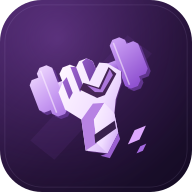
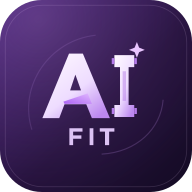
Brand the app as AIFit with custom AI fitness monogram

diff --git a/components/dashboard.tsx b/components/dashboard.tsx
@@ -94,7 +94,7 @@ export default function Dashboard() {
     {view === 'Workouts' && !data.workouts.length && <p className="muted workout-copy">No sessions logged yet. Record your first gym workout.</p>}
     <button className="secondary full" onClick={() => setModal('workout')}><Plus size={16}/> Log a workout</button></Panel>;
   const weightPanel = <Panel><div className="panel-heading"><div><span className="eyebrow">THE BIG PICTURE</span><h2>Weight progress</h2></div><button className="text-button" onClick={() => setModal('weight')}><Plus size={16}/> Log weight</button></div><div className="weight-summary"><strong>{currentWeight.toFixed(1)}<span> kg</span></strong><span className="trend"><ArrowDownRight size={15}/>{lost >= 0 ? `${lost.toFixed(1)} kg down` : `${Math.abs(lost).toFixed(1)} kg up`} from start</span></div><WeightChart data={data} today={date}/><div className="chart-legend"><span><i/> Your weight</span><span>Goal <strong>64 kg</strong></span></div>{view === 'Progress' && <div className="weight-history">{[...weights].reverse().map(w => <div className="food-row" key={w.id}><span className="grow">{prettyDate(w.date, { day: 'numeric', month: 'long', year: 'numeric' })}</span><strong>{w.kg} kg</strong><button className="icon-button delete" aria-label={`Delete weight from ${w.date}`} onClick={() => setData({ ...data, weights: data.weights.filter(item => item.id !== w.id) })}><Trash2 size={15}/></button></div>)}</div>}</Panel>;
-  return <div className="app-shell"><aside className="sidebar"><a className="brand" href="/" aria-label="FitTrack AI home"><span className="brand-symbol"><Activity size={24}/></span>FitTrack<span className="brand-ai">AI</span></a><span className="nav-label">YOUR WORKSPACE</span><nav>{navigation.map(({ name, icon: Icon }) => <button key={name} className={view === name ? 'nav-item active' : 'nav-item'} onClick={() => setView(name)} aria-current={view === name ? 'page' : undefined}><Icon size={19}/>{name}{view === name && <span className="nav-dot"/>}</button>)}</nav><div className="sidebar-bottom"><div className="goal-note"><Target size={21}/><strong>One day at a time.</strong><p>Small steps. Stronger you.</p><div className="mini-track"><span style={{ width: `${Math.max(0, Math.min(100, lost / 10 * 100))}%` }}/></div><small>{Math.max(0, (currentWeight - 64)).toFixed(1)} kg to your goal</small></div><button className="account" onClick={() => setView('Profile')}><span className="avatar">ME</span><span><strong>Your fitness journey</strong><small>Personal dashboard</small></span><Settings2 size={16}/></button></div></aside>
+  return <div className="app-shell"><aside className="sidebar"><a className="brand" href="/" aria-label="AIFit home"><span className="brand-symbol"><Activity size={24}/></span>AIFit<span className="brand-ai">AiFT</span></a><span className="nav-label">YOUR WORKSPACE</span><nav>{navigation.map(({ name, icon: Icon }) => <button key={name} className={view === name ? 'nav-item active' : 'nav-item'} onClick={() => setView(name)} aria-current={view === name ? 'page' : undefined}><Icon size={19}/>{name}{view === name && <span className="nav-dot"/>}</button>)}</nav><div className="sidebar-bottom"><div className="goal-note"><Target size={21}/><strong>One day at a time.</strong><p>Small steps. Stronger you.</p><div className="mini-track"><span style={{ width: `${Math.max(0, Math.min(100, lost / 10 * 100))}%` }}/></div><small>{Math.max(0, (currentWeight - 64)).toFixed(1)} kg to your goal</small></div><button className="account" onClick={() => setView('Profile')}><span className="avatar">ME</span><span><strong>Your fitness journey</strong><small>Personal dashboard</small></span><Settings2 size={16}/></button></div></aside>
     <div className="main-wrap"><header className="topbar"><span className="breadcrumb">Your workspace <ChevronRight size={14}/> <strong>{view}</strong></span><button className="storage-button" onClick={() => setModal('cloud')}><span className="status-dot"/>{user ? 'Cloud account' : 'Saved on this device'}<Cloud size={16}/></button></header>
       <main><div className="page-heading"><div><span className="eyebrow">LET’S MAKE TODAY COUNT</span><h1>{view === 'Overview' ? 'Your daily overview' : view === 'Profile' ? 'Built around you' : view}</h1><p>{view === 'Overview' ? 'A little stronger. A little closer. Every single day.' : 'Small, consistent actions. Progress you can see.'}</p></div><div className="date-control"><button className="icon-button" onClick={() => changeDay(-1)} aria-label="Previous day"><ChevronLeft size={17}/></button><label><input aria-label="Selected date" type="date" value={date} max={localDate()} onChange={e => e.target.value && setDate(e.target.value)}/></label><button className="icon-button" onClick={() => changeDay(1)} disabled={date >= localDate()} aria-label="Next day"><ChevronRight size={17}/></button></div></div>
       {!ready ? <p className="muted" role="status">Loading your dashboard…</p> : <>
@@ -108,8 +108,8 @@ export default function Dashboard() {
       {view === 'Food diary' && <div className="detail-layout"><div className="summary-strip"><Flame size={22}/><strong>{consumed.calories} / 1,900 kcal</strong><span>{consumed.protein} / 130 g protein</span></div>{foodPanel}</div>}
       {view === 'Workouts' && <div className="detail-layout">{workoutPanel}</div>}
       {view === 'Progress' && <div className="detail-layout">{weightPanel}</div>}
-      {view === 'Profile' && <div className="detail-layout"><Panel><div className="panel-heading"><div><span className="eyebrow">YOUR STARTING POINT</span><h2>Your fitness profile</h2></div><Target size={22}/></div><div className="profile-grid">{[['Age', '37 years'], ['Sex', 'Male'], ['Height', '165 cm'], ['Starting weight', '74 kg'], ['Target weight', '64 kg'], ['Daily calories', '1,900 kcal'], ['Daily protein', '130 g'], ['Gym target', '4 days / week']].map(([label, value]) => <div key={label}><span>{label}</span><strong>{value}</strong></div>)}</div><p className="muted">These are your supplied targets. Your current weight updates from your weigh-ins.</p></Panel><Panel><h2>Your data, in your hands</h2><p className="muted">Logs save in this browser. Export a copy, restore an export, or connect Supabase to keep a cloud backup. Anyone using this browser can access local logs.</p><div className="button-row"><button className="secondary" onClick={exportData}>Export logs</button><label className="secondary import-label">Import logs<input type="file" accept="application/json,.json" onChange={async e => { const file = e.target.files?.[0]; if (!file) return; try { const parsed: unknown = JSON.parse(await file.text()); if (!isData(parsed)) throw new Error('Invalid FitTrack export.'); setData(parsed); setNotice('Export restored. Browser logs replaced.'); } catch { setNotice('Could not import this file. Choose a valid FitTrack JSON export.'); } e.target.value = ''; }}/></label><button className="secondary" onClick={() => setModal('cloud')}><Cloud size={16}/> Cloud backup</button></div><p className="rule-note">Import replaces browser logs. Export first to keep a copy.</p></Panel></div>}
-      <footer><span><Activity size={14}/> FitTrack AI</span><span>Consistency looks good on you.</span><span>Stage 1 · Personal dashboard</span></footer></>}
+      {view === 'Profile' && <div className="detail-layout"><Panel><div className="panel-heading"><div><span className="eyebrow">YOUR STARTING POINT</span><h2>Your fitness profile</h2></div><Target size={22}/></div><div className="profile-grid">{[['Age', '37 years'], ['Sex', 'Male'], ['Height', '165 cm'], ['Starting weight', '74 kg'], ['Target weight', '64 kg'], ['Daily calories', '1,900 kcal'], ['Daily protein', '130 g'], ['Gym target', '4 days / week']].map(([label, value]) => <div key={label}><span>{label}</span><strong>{value}</strong></div>)}</div><p className="muted">These are your supplied targets. Your current weight updates from your weigh-ins.</p></Panel><Panel><h2>Your data, in your hands</h2><p className="muted">Logs save in this browser. Export a copy, restore an export, or connect Supabase to keep a cloud backup. Anyone using this browser can access local logs.</p><div className="button-row"><button className="secondary" onClick={exportData}>Export logs</button><label className="secondary import-label">Import logs<input type="file" accept="application/json,.json" onChange={async e => { const file = e.target.files?.[0]; if (!file) return; try { const parsed: unknown = JSON.parse(await file.text()); if (!isData(parsed)) throw new Error('Invalid AIFit export.'); setData(parsed); setNotice('Export restored. Browser logs replaced.'); } catch { setNotice('Could not import this file. Choose a valid AIFit JSON export.'); } e.target.value = ''; }}/></label><button className="secondary" onClick={() => setModal('cloud')}><Cloud size={16}/> Cloud backup</button></div><p className="rule-note">Import replaces browser logs. Export first to keep a copy.</p></Panel></div>}
+      <footer><span><Activity size={14}/> AIFit</span><span>Consistency looks good on you.</span><span>Stage 1 · Personal dashboard</span></footer></>}
       </main></div>
     <nav className="mobile-nav" aria-label="Mobile navigation">{navigation.map(({ name, icon: Icon }) => <button key={name} className={view === name ? 'active' : ''} onClick={() => setView(name)} aria-current={view === name ? 'page' : undefined}><Icon size={20}/><span>{name === 'Food diary' ? 'Food' : name}</span></button>)}</nav>
     <dialog ref={dialog} onCancel={() => setModal(null)} onClick={e => { if (e.target === e.currentTarget) setModal(null); }}><div className="modal-content"><div className="panel-heading"><div><span className="eyebrow">ONE SMALL STEP</span><h2>{modal === 'food' ? 'Log a meal' : modal === 'workout' ? 'Log a workout' : modal === 'weight' ? 'Log your weight' : 'Cloud backup'}</h2></div><button className="icon-button" aria-label="Close dialog" onClick={() => setModal(null)}><X size={20}/></button></div>

diff --git a/components/features/assistant.tsx b/components/features/assistant.tsx
@@ -66,7 +66,7 @@ export function Assistant({ mode }: { mode: AssistantMode }) {
   return <div className="feature-page" data-page="assistant"><div className="shell-page-heading"><div><span className="shell-overline">DRAFT · REVIEW · SAVE</span><h1>Your AI assistant</h1><p>Turn everyday descriptions into records and practical next steps.</p></div></div>
     <div className="assistant-workbench"><aside className="chat-tools" aria-label="Chat tools"><div><span className="shell-overline">YOUR AI WORKSPACE</span><h2>What’s on your mind?</h2></div><nav className="assistant-tabs" aria-label="Assistant tools">{assistantModes.map(item => <Link className={item === mode ? 'shell-button' : 'shell-text-link'} aria-current={item === mode ? 'page' : undefined} href={`/assistant?mode=${item}`} key={item}>{titles[item]}</Link>)}</nav><label>Chat provider<select aria-label="Chat provider" disabled={busy} value={provider} onChange={event => { setProvider(event.target.value as typeof provider); setConsent(false); setBillingConsent(false); }}><option value="openai">OpenAI · GPT-6 Luna (recommended)</option><option value="anthropic">Anthropic · Claude Haiku 5.5</option></select></label><button type="button" className="shell-button shell-button-secondary" disabled={busy} onClick={() => { setConversation([]); setDraft(null); setDescription(''); setError(''); setMessage(''); }}>New conversation</button><p className="workout-muted">This chat stays in memory for this page session. Only the latest eight completed messages are sent as context. Examples are excluded.</p><Link className="shell-text-link" href="#ai-connections">Connect or remove an API key ↓</Link></aside>
     <section className="workout-panel chat-panel" aria-label="AI chat"><header className="chat-panel-heading"><div><span className="shell-overline">LET’S WORK THROUGH IT</span><h2>{titles[mode]}</h2></div><span className="shell-badge">{provider === 'openai' ? 'OpenAI' : 'Anthropic'}</span></header><p role="status" className="chat-service-status">{status.reason}</p>{status.personal && !status.providers?.[provider] && <p className="workout-muted">Connect an {provider === 'openai' ? 'OpenAI' : 'Anthropic'} key below to use this provider.</p>}{status.quota && <p className="workout-muted">{status.quota.dailyRemaining} attempts left today · {status.quota.monthlyRemaining} left this month across the app</p>}
-    <div className="chat-transcript" role="log" aria-label="Assistant conversation" aria-live="polite" ref={logRef}>{conversation.length ? conversation.map(row => <article key={row.id} className={`chat-message chat-${row.role}`}><span>{row.role === 'user' ? 'You' : 'FitTrack assistant'}{row.example ? ' · example' : ''}</span><p>{row.content}</p>{row.role === 'user' && !row.delivered && !busy && <small>Request not completed</small>}</article>) : <div className="chat-welcome"><span className="chat-welcome-mark">✦</span><h3>A little clarity for your next step.</h3><p>{prompts[mode]}</p><div className="chat-starters">{starters[mode].map(text => <button type="button" key={text} onClick={() => setDescription(text)}>{text}<span aria-hidden="true">↗</span></button>)}</div></div>}{busy && <p className="chat-thinking" role="status">Assistant is preparing your reply…</p>}</div>
+    <div className="chat-transcript" role="log" aria-label="Assistant conversation" aria-live="polite" ref={logRef}>{conversation.length ? conversation.map(row => <article key={row.id} className={`chat-message chat-${row.role}`}><span>{row.role === 'user' ? 'You' : 'AIFit assistant'}{row.example ? ' · example' : ''}</span><p>{row.content}</p>{row.role === 'user' && !row.delivered && !busy && <small>Request not completed</small>}</article>) : <div className="chat-welcome"><span className="chat-welcome-mark">✦</span><h3>A little clarity for your next step.</h3><p>{prompts[mode]}</p><div className="chat-starters">{starters[mode].map(text => <button type="button" key={text} onClick={() => setDescription(text)}>{text}<span aria-hidden="true">↗</span></button>)}</div></div>}{busy && <p className="chat-thinking" role="status">Assistant is preparing your reply…</p>}</div>
       <form className="assistant-form chat-composer" onSubmit={event => { event.preventDefault(); void generate(false); }}>
         {mode === 'review' && <><label>Week ending<input type="date" required value={date || today} onChange={event => { setDate(event.target.value); setDraft(null); setConversation([]); }}/></label><details><summary>Review the summary that will be shared</summary><dl>{facts.map(fact => <div key={fact.id}><dt>{fact.id}</dt><dd>{fact.value}</dd></div>)}</dl></details></>}
         <label>Your request<textarea aria-label="Your request" required minLength={3} maxLength={2000} rows={3} value={description} readOnly={busy} placeholder="Describe a meal, ask a question, or refine the last reply…" onChange={event => setDescription(event.target.value)} onKeyDown={event => { if (event.key === 'Enter' && !event.shiftKey) { event.preventDefault(); event.currentTarget.form?.requestSubmit(); } }}/></label>

diff --git a/components/layout/app-shell.tsx b/components/layout/app-shell.tsx
@@ -9,5 +9,5 @@ const icons = { assistant: Sparkles, home: Home, food: Utensils, meals: Calendar
 export function AppShell({ children }: { children: React.ReactNode }) {
   const pathname = usePathname();
   function navLink(item: typeof navigation[number], mobile = false) { const Icon = icons[item.icon]; return <Link key={item.href} href={item.href} className={mobile ? 'shell-mobile-link' : 'shell-nav-link'} aria-current={isActiveRoute(pathname, item.href) ? 'page' : undefined}><Icon size={19} aria-hidden="true"/><span>{mobile && item.href === '/workouts' ? 'Workouts' : item.label}</span>{!mobile && <ChevronRight size={14} className="nav-arrow"/>}</Link>; }
-  return <div className="workspace"><a className="skip-link" href="#main-content">Skip to content</a><aside className="shell-sidebar"><Link href="/" className="shell-brand"><span><Image className="brand-mark" src="/icon.svg?v=ascend-4" width={35} height={35} alt="" unoptimized/></span>FitTrack <b>AI</b></Link><p className="shell-overline">YOUR WORKSPACE</p><nav aria-label="Main navigation">{navigation.map(item => navLink(item))}</nav><div className="shell-sidebar-note"><span className="shell-overline">BUILT FOR CONSISTENCY</span><h2>Your pace.<br/>Your progress.</h2><p>A space for the small things that add up.</p><Link href="/onboarding">Your starting point <ArrowUpRight size={16}/></Link></div><Link className="shell-profile" href="/settings"><span>ME</span><div><strong>Your fitness journey</strong><small>Personal workspace</small></div><Settings2 size={16}/></Link></aside><div className="shell-body"><header className="shell-header"><Link className="shell-mobile-brand" href="/"><Image className="brand-mark" src="/icon.svg?v=ascend-4" width={32} height={32} alt="" unoptimized/> FitTrack <b>AI</b></Link><span className="shell-breadcrumb">Workspace <ChevronRight size={13}/><strong>{pageLabel(pathname)}</strong></span><div className="shell-header-actions"><Link href="/assistant" className="shell-icon" aria-label="AI assistant"><Sparkles size={19}/></Link><span className="shell-local-status"><i/> Browser storage</span><ThemeToggle/><Link href="/auth" className="shell-icon" aria-label="Sign in"><LogIn size={19}/></Link></div></header><main id="main-content" className="shell-main" tabIndex={-1}>{children}</main><footer className="shell-footer"><span>FitTrack AI</span><span>Small steps. Lasting habits.</span></footer></div><nav className="shell-mobile-nav" aria-label="Mobile navigation">{mobileNavigation.map(item => navLink(item, true))}</nav></div>;
+  return <div className="workspace"><a className="skip-link" href="#main-content">Skip to content</a><aside className="shell-sidebar"><Link href="/" className="shell-brand"><span><Image className="brand-mark" src="/icon.svg?v=aift-5" width={35} height={35} alt="" unoptimized/></span>AIFit <b>AiFT</b></Link><p className="shell-overline">YOUR WORKSPACE</p><nav aria-label="Main navigation">{navigation.map(item => navLink(item))}</nav><div className="shell-sidebar-note"><span className="shell-overline">BUILT FOR CONSISTENCY</span><h2>Your pace.<br/>Your progress.</h2><p>A space for the small things that add up.</p><Link href="/onboarding">Your starting point <ArrowUpRight size={16}/></Link></div><Link className="shell-profile" href="/settings"><span>ME</span><div><strong>Your fitness journey</strong><small>Personal workspace</small></div><Settings2 size={16}/></Link></aside><div className="shell-body"><header className="shell-header"><Link className="shell-mobile-brand" href="/"><Image className="brand-mark" src="/icon.svg?v=aift-5" width={32} height={32} alt="" unoptimized/> AIFit <b>AiFT</b></Link><span className="shell-breadcrumb">Workspace <ChevronRight size={13}/><strong>{pageLabel(pathname)}</strong></span><div className="shell-header-actions"><Link href="/assistant" className="shell-icon" aria-label="AI assistant"><Sparkles size={19}/></Link><span className="shell-local-status"><i/> Browser storage</span><ThemeToggle/><Link href="/auth" className="shell-icon" aria-label="Sign in"><LogIn size={19}/></Link></div></header><main id="main-content" className="shell-main" tabIndex={-1}>{children}</main><footer className="shell-footer"><span>AIFit</span><span>Train smarter. Fuel better.</span></footer></div><nav className="shell-mobile-nav" aria-label="Mobile navigation">{mobileNavigation.map(item => navLink(item, true))}</nav></div>;
 }

diff --git a/components/features/workspace.tsx b/components/features/workspace.tsx
@@ -207,7 +207,7 @@ function DataControls({ data }: { data: Workspace | null }) {
       try { localStorage.setItem(WORKSPACE_KEY, JSON.stringify(workspace)); localStorage.setItem(WORKOUT_STORAGE_KEY, JSON.stringify(workout)); }
       catch (error) { if (oldWorkspace === null) localStorage.removeItem(WORKSPACE_KEY); else localStorage.setItem(WORKSPACE_KEY, oldWorkspace); if (oldWorkout === null) localStorage.removeItem(WORKOUT_STORAGE_KEY); else localStorage.setItem(WORKOUT_STORAGE_KEY, oldWorkout); throw error; }
       replaceWorkspace(workspace); replaceWorkouts(workout); setNotice('Backup imported.');
-    } catch { setNotice('Import failed. Choose a valid complete FitTrack backup and ensure browser storage has room.'); }
+    } catch { setNotice('Import failed. Choose a valid complete AIFit backup and ensure browser storage has room.'); }
   }
   return <section className="workout-panel"><h2>Your data</h2><p className="workout-muted">Records are saved in this browser, on this address. They are accessible to anyone using this browser profile. Export before clearing storage or switching devices. The legacy prototype has separate data controls.</p><div className="workout-actions"><button className="shell-button" disabled={!data || !workouts} onClick={() => downloadJSON({ version: 1, workspace: data, workouts })}><Download size={16}/> Export all data</button><label className="shell-button shell-button-secondary workout-import">Import all data<input type="file" accept="application/json,.json" onChange={event => { const file = event.target.files?.[0]; event.target.value = ''; void importBackup(file); }}/></label>{!data && raw && <button className="shell-button shell-button-secondary" onClick={() => downloadJSON(raw, 'fittrack-workspace-recovery')}>Export workspace recovery copy</button>}{!workouts && workoutRaw && <button className="shell-button shell-button-secondary" onClick={() => downloadJSON(workoutRaw, 'fittrack-workout-recovery')}>Export workout recovery copy</button>}<button className="shell-button shell-button-secondary" onClick={() => { if (confirm('Delete all workspace data in this browser? This clears your profile, foods, meal plans, measurements and daily activity. Export a backup first.')) replaceWorkspace(initialWorkspace()); }}>Delete workspace data</button><button className="shell-button shell-button-secondary" onClick={() => { if (confirm('Delete all workout plans, active session, and history in this browser? Export a backup first.')) replaceWorkouts(initialWorkouts()); }}>Delete workout data</button></div><p role="status">{notice}</p><p className="shell-fine-print"><Link className="shell-text-link" href="/auth">Account and cloud connection →</Link></p><Link className="shell-text-link" href="/prototype">Legacy prototype data controls →</Link></section>;
 }

diff --git a/app/layout.tsx b/app/layout.tsx
@@ -2,7 +2,7 @@ import type { Metadata, Viewport } from 'next';
 import './globals.css';
 import { appearanceScript } from '@/lib/appearance';
 import { OfflineSupport } from '@/components/features/offline';
-export const metadata: Metadata = { title: { default:'FitTrack AI · Your fitness workspace', template:'%s · FitTrack AI' }, description:'Food, movement, and progress. Your personal fitness workspace.', appleWebApp:{capable:true,statusBarStyle:'default',title:'FitTrack AI'}, icons:{icon:[{url:'/favicon-16x16.png?v=ascend-4',sizes:'16x16',type:'image/png'},{url:'/favicon-32x32.png?v=ascend-4',sizes:'32x32',type:'image/png'},{url:'/icon.svg?v=ascend-4',sizes:'any',type:'image/svg+xml'}],apple:[{url:'/apple-touch-icon.png?v=ascend-4',sizes:'180x180',type:'image/png'}]} };
+export const metadata: Metadata = { title: { default:'AIFit · Train smarter. Fuel better.', template:'%s · AIFit' }, description:'Food, movement, and progress. Your personal fitness workspace.', appleWebApp:{capable:true,statusBarStyle:'default',title:'AiFT'}, icons:{icon:[{url:'/favicon-16x16.png?v=aift-5',sizes:'16x16',type:'image/png'},{url:'/favicon-32x32.png?v=aift-5',sizes:'32x32',type:'image/png'},{url:'/icon.svg?v=aift-5',sizes:'any',type:'image/svg+xml'}],apple:[{url:'/apple-touch-icon.png?v=aift-5',sizes:'180x180',type:'image/png'}]} };
 export const viewport: Viewport = { width:'device-width',initialScale:1,viewportFit:'cover',themeColor:[{media:'(prefers-color-scheme: dark)',color:'#100c1a'},{media:'(prefers-color-scheme: light)',color:'#f7f4fc'}] };
 const themeScript = appearanceScript;
 export default function RootLayout({ children }: Readonly<{ children: React.ReactNode }>) { return <html lang="en" suppressHydrationWarning><head><script dangerouslySetInnerHTML={{__html:themeScript}}/></head><body>{children}<OfflineSupport/></body></html>; }

diff --git a/app/manifest.ts b/app/manifest.ts
@@ -1,9 +1,9 @@
 import type { MetadataRoute } from 'next';
 export default function manifest(): MetadataRoute.Manifest {
-  return { id: '/', name: 'FitTrack AI', short_name: 'FitTrack', description: 'Food, workouts, and progress in your personal workspace', start_url: '/', scope: '/', display: 'standalone', background_color: '#100c1a', theme_color: '#100c1a', icons: [
-    { src: '/icon.svg?v=ascend-4', sizes: 'any', type: 'image/svg+xml', purpose: 'any' },
-    { src: '/icon-192.png?v=ascend-4', sizes: '192x192', type: 'image/png', purpose: 'any' },
-    { src: '/icon-512.png?v=ascend-4', sizes: '512x512', type: 'image/png', purpose: 'any' },
-    { src: '/icon-maskable.png?v=ascend-4', sizes: '512x512', type: 'image/png', purpose: 'maskable' },
+  return { id: '/', name: 'AIFit', short_name: 'AiFT', description: 'Food, workouts, and progress in your personal workspace', start_url: '/', scope: '/', display: 'standalone', background_color: '#100c1a', theme_color: '#100c1a', icons: [
+    { src: '/icon.svg?v=aift-5', sizes: 'any', type: 'image/svg+xml', purpose: 'any' },
+    { src: '/icon-192.png?v=aift-5', sizes: '192x192', type: 'image/png', purpose: 'any' },
+    { src: '/icon-512.png?v=aift-5', sizes: '512x512', type: 'image/png', purpose: 'any' },
+    { src: '/icon-maskable.png?v=aift-5', sizes: '512x512', type: 'image/png', purpose: 'maskable' },
   ] };
 }

diff --git a/public/offline.html b/public/offline.html
@@ -1,1 +1,1 @@
-<!doctype html><html lang="en"><meta charset="utf-8"><meta name="viewport" content="width=device-width,initial-scale=1"><title>FitTrack · Offline</title><style>body{margin:0;padding:48px 24px;background:#100c1a;color:#f3eefc;font:16px/1.7 system-ui,-apple-system,sans-serif;max-width:600px}a{color:#c9a9ff}h1{line-height:1.2}</style><h1>You’re offline.</h1><p>Your saved browser records are still on this device. Reconnect to load a page that hasn’t been downloaded yet. Account sign-in and cloud saves need an internet connection.</p><a href="/">Return to your dashboard</a></html>
+<!doctype html><html lang="en"><meta charset="utf-8"><meta name="viewport" content="width=device-width,initial-scale=1"><title>AIFit · Offline</title><style>body{margin:0;padding:48px 24px;background:#100c1a;color:#f3eefc;font:16px/1.7 system-ui,-apple-system,sans-serif;max-width:600px}a{color:#c9a9ff}h1{line-height:1.2}</style><h1>You’re offline.</h1><p>Your saved browser records are still on this device. Reconnect to load a page that hasn’t been downloaded yet. Account sign-in and cloud saves need an internet connection.</p><a href="/">Return to your dashboard</a></html>

diff --git a/public/sw.js b/public/sw.js
@@ -1,8 +1,8 @@
 /* Public application shell only: account/auth/API responses are never cached. */
-const SHELL = 'fittrack-shell-20261105-economy-v10';
-const ASSETS = 'fittrack-assets-20261105-economy-v10';
+const SHELL = 'fittrack-shell-20261105-aift-v11';
+const ASSETS = 'fittrack-assets-20261105-aift-v11';
 const PAGES = ['/', '/food', '/meals', '/workouts', '/workouts/active', '/progress', '/settings', '/onboarding'];
-const PUBLIC_ASSETS = ['/offline.html', '/favicon.ico', '/favicon-16x16.png?v=ascend-4', '/favicon-32x32.png?v=ascend-4', '/icon.svg?v=ascend-4', '/manifest.webmanifest', '/icon-192.png?v=ascend-4', '/icon-512.png?v=ascend-4', '/icon-maskable.png?v=ascend-4', '/apple-touch-icon.png?v=ascend-4'];
+const PUBLIC_ASSETS = ['/offline.html', '/favicon.ico', '/favicon-16x16.png?v=aift-5', '/favicon-32x32.png?v=aift-5', '/icon.svg?v=aift-5', '/manifest.webmanifest', '/icon-192.png?v=aift-5', '/icon-512.png?v=aift-5', '/icon-maskable.png?v=aift-5', '/apple-touch-icon.png?v=aift-5'];
 self.addEventListener('install', event => {
   event.waitUntil(caches.open(SHELL).then(async cache => {
     await cache.addAll([...PAGES, ...PUBLIC_ASSETS]);

diff --git a/README.md b/README.md
@@ -1,4 +1,4 @@
-# FitTrack AI / Rep-Rhythm
+# AIFit / Rep-Rhythm
 
 A Next.js fitness workspace for profile preferences, food and meal planning, workouts, and progress. Core tracking works without Supabase configuration and stores records in the current browser. Optional account storage uses normalized PostgreSQL tables and Supabase authentication.
 
